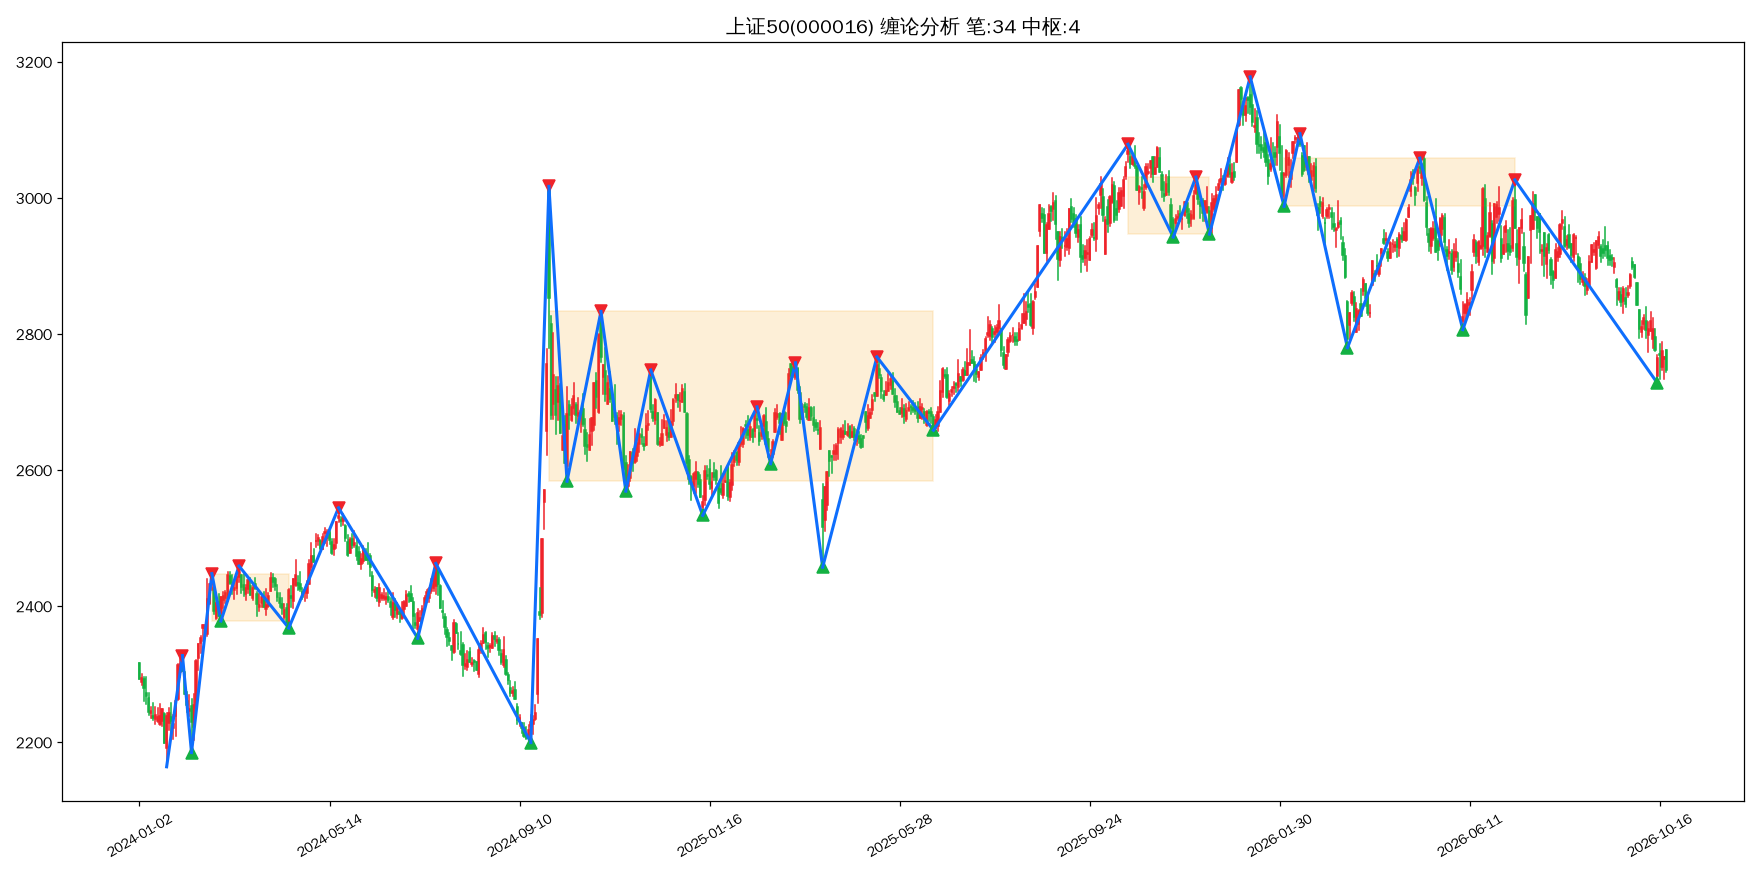
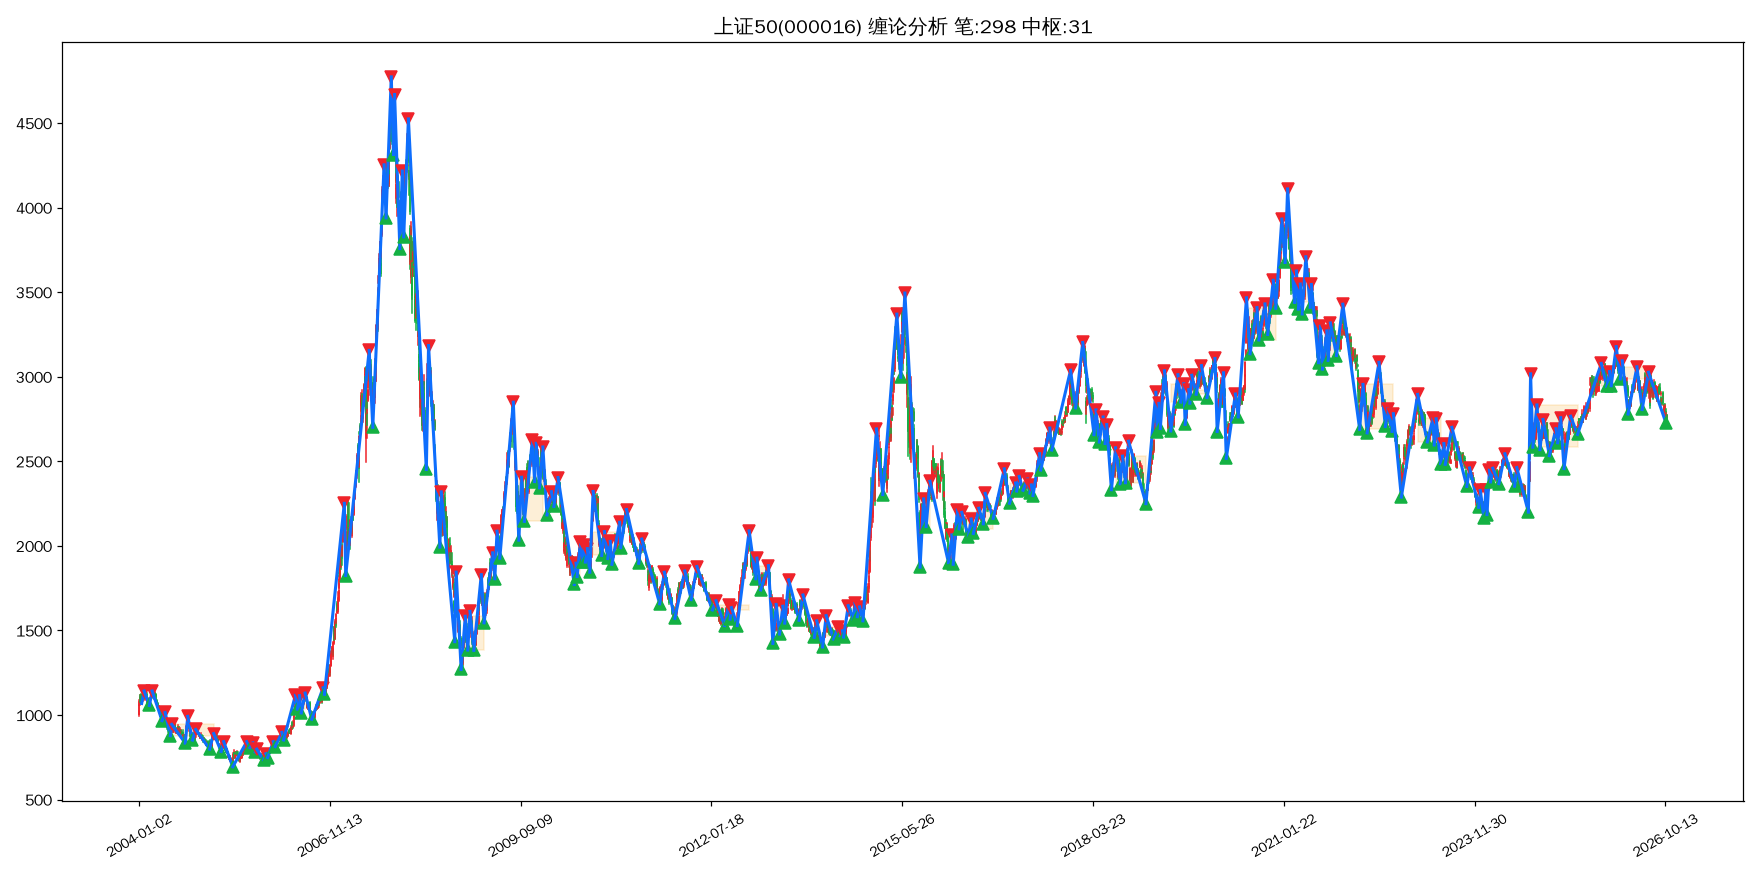
自动更新缠论日报与配图

diff --git a/chan_report.md b/chan_report.md
@@ -119,28 +119,28 @@
 ![深证指数缠论图谱](chan_img/399001_深证指数.png)
 
 ## 创业板指（399006）
-- 最新收盘价：2701.57
-- 有效K线数量：676
-- 笔总数：31 | 中枢总数：3
-- 最新一笔走势：下跌 | 2026-09-22~2026-10-21 | 3472.47 → 2696.09
+- 最新收盘价：2694.713
+- 有效K线数量：3978
+- 笔总数：223 | 中枢总数：28
+- 最新一笔走势：下跌 | 2026-09-22~2026-10-21 | 3472.47 → 2682.71
 - 缠论背驰判断：**无背驰**
-- 三类买卖点识别：**买1类@2024-08-29(1541.40)、买2,3b类@2025-01-13(1982.46)、买2s类@2025-04-07(1807.21)、买2s类@2025-05-28(1985.38)、买2s类@2025-06-23(2017.63)、买3a类@2025-11-24(2929.04)、卖1p类@2026-01-13(3321.89)、卖2类@2026-02-25(3354.82)、买1类@2026-10-21(2701.57)**
+- 三类买卖点识别：**卖1p类@2010-12-20(1212.34)、卖2类@2011-01-06(1134.79)、卖2s类@2011-02-23(1114.05)、卖2s类@2011-03-11(1101.76)、买1类@2011-06-21(795.61)、买2类@2011-07-26(892.54)、买1类@2014-05-16(1226.47)、买2类@2014-07-24(1271.88)、买3b类@2014-10-27(1492.01)、买1类@2015-09-02(1855.03)、买2类@2015-11-03(2429.27)、卖1p类@2019-04-08(1739.65)、卖2类@2019-05-16(1533.67)、卖1类@2021-07-22(3544.44)、卖2类@2021-08-05(3532.50)、卖2s类@2021-11-30(3495.59)、卖2s类@2022-01-18(3144.33)、卖3a类@2022-03-01(2885.79)、卖1类@2023-01-30(2613.89)、卖2类@2023-04-11(2439.40)、卖2s类@2023-05-16(2294.19)、买1类@2023-06-08(2123.96)、买2类@2023-07-24(2146.93)、买1类@2024-02-05(1562.61)、买2类@2024-04-22(1750.46)、买2s类@2024-07-09(1652.12)、买2s类@2024-08-29(1541.40)、卖1p类@2026-01-13(3321.89)、卖2类@2026-02-25(3354.82)、买1类@2026-10-21(2694.71)**
 ![创业板指缠论图谱](chan_img/399006_创业板指.png)
 
 ## 沪深300（000300）
-- 最新收盘价：4117.54
-- 有效K线数量：676
-- 笔总数：41 | 中枢总数：4
-- 最新一笔走势：下跌 | 2026-09-22~2026-10-21 | 4583.38 → 4111.87
+- 最新收盘价：4111.933
+- 有效K线数量：6013
+- 笔总数：331 | 中枢总数：39
+- 最新一笔走势：下跌 | 2026-09-22~2026-10-21 | 4583.38 → 4098.96
 - 缠论背驰判断：**无背驰**
-- 三类买卖点识别：**卖1类@2026-01-13(4761.03)、卖2类@2026-02-25(4735.89)、卖2s类@2026-03-17(4637.44)、买1类@2026-10-21(4117.54)**
+- 三类买卖点识别：**买1p类@2003-11-18(1081.00)、买2类@2003-12-31(1194.74)、买3b类@2004-03-09(1314.17)、卖1类@2004-04-06(1410.43)、卖2,3b类@2004-06-01(1224.11)、买1p类@2005-06-06(839.00)、买2类@2005-09-28(903.72)、买2s类@2005-11-16(863.12)、买1p类@2008-11-04(1627.76)、买2类@2008-12-01(1864.20)、买2s类@2008-12-31(1817.72)、买3a类@2009-03-03(2142.15)、卖1类@2016-08-16(3378.24)、卖2类@2016-09-07(3340.82)、买1类@2019-01-04(3035.87)、买2,3b类@2019-05-27(3637.20)、买2s类@2019-07-22(3781.68)、买2s类@2019-08-06(3636.33)、买2s类@2019-10-09(3843.24)、买2s类@2019-11-29(3828.67)、卖1类@2020-01-14(4189.89)、卖2类@2020-02-21(4149.49)、卖2s类@2020-03-05(4206.73)、卖1p类@2021-02-18(5768.38)、卖2类@2021-04-06(5140.34)、卖2s类@2021-04-26(5077.24)、卖2s类@2021-05-27(5338.23)、卖2s类@2021-06-28(5251.76)、卖2s类@2021-07-22(5151.75)、买1类@2021-07-28(4760.48)、买2类@2021-08-20(4769.27)、买2s类@2021-09-22(4821.77)、买2s类@2021-11-10(4821.19)、买1类@2022-10-31(3508.70)、买2类@2022-11-28(3733.24)、买2s类@2022-12-23(3828.22)、卖1类@2023-01-30(4201.35)、卖2类@2023-04-18(4162.03)、卖2s类@2023-05-09(4027.88)、卖2s类@2023-06-16(3963.35)、卖3a类@2023-11-06(3632.61)、买1类@2024-02-02(3179.63)、买2,3b类@2024-04-12(3475.84)、卖1类@2026-01-13(4761.03)、卖2类@2026-02-25(4735.89)、卖2s类@2026-03-17(4637.44)、买1类@2026-10-21(4111.93)**
 ![沪深300缠论图谱](chan_img/000300_沪深300.png)
 
 ## 上证50（000016）
-- 最新收盘价：2747.47
-- 有效K线数量：676
-- 笔总数：34 | 中枢总数：4
+- 最新收盘价：2747.051
+- 有效K线数量：5535
+- 笔总数：298 | 中枢总数：31
 - 最新一笔走势：下跌 | 2026-07-10~2026-10-15 | 3026.43 → 2727.77
 - 缠论背驰判断：**无背驰**
-- 三类买卖点识别：**卖1类@2024-05-20(2532.82)、卖2类@2024-07-19(2456.79)、买1类@2026-10-15(2765.23)**
+- 三类买卖点识别：**买1p类@2005-06-06(717.21)、买2类@2005-08-31(816.75)、买2s类@2005-09-28(783.00)、卖1p类@2014-09-09(1645.11)、卖2类@2014-10-09(1634.04)、买1p类@2016-02-29(1944.61)、买2类@2016-03-29(2106.86)、买2s类@2016-05-18(2078.76)、买2s类@2016-06-15(2106.63)、买2s类@2016-08-04(2143.84)、买2s类@2016-09-27(2176.45)、卖1类@2016-11-29(2441.58)、卖2类@2017-01-26(2364.02)、卖2s类@2017-02-21(2396.88)、卖2s类@2017-04-06(2390.39)、卖2s类@2017-04-26(2344.51)、买1类@2018-07-03(2388.98)、买2类@2018-08-16(2405.16)、买2s类@2018-09-12(2381.39)、买3a类@2019-03-11(2708.60)、卖1类@2019-04-17(3017.42)、卖2类@2019-07-01(3002.94)、卖2s类@2019-07-30(2944.03)、卖1p类@2021-02-18(4014.32)、卖2类@2021-04-06(3594.71)、卖2s类@2021-04-26(3467.66)、卖2s类@2021-05-27(3664.94)、卖2s类@2021-06-25(3535.02)、卖3a类@2021-08-11(3262.57)、买1p类@2021-08-20(3072.76)、买2类@2021-09-22(3122.34)、买2s类@2021-11-10(3170.41)、买1类@2022-10-31(2295.92)、买2类@2023-03-20(2616.75)、买2s类@2023-04-25(2619.23)、买2s类@2023-05-31(2493.35)、卖1类@2024-05-20(2532.82)、卖2类@2024-07-19(2456.79)、买1类@2026-10-15(2765.22)**
 ![上证50缠论图谱](chan_img/000016_上证50.png)
